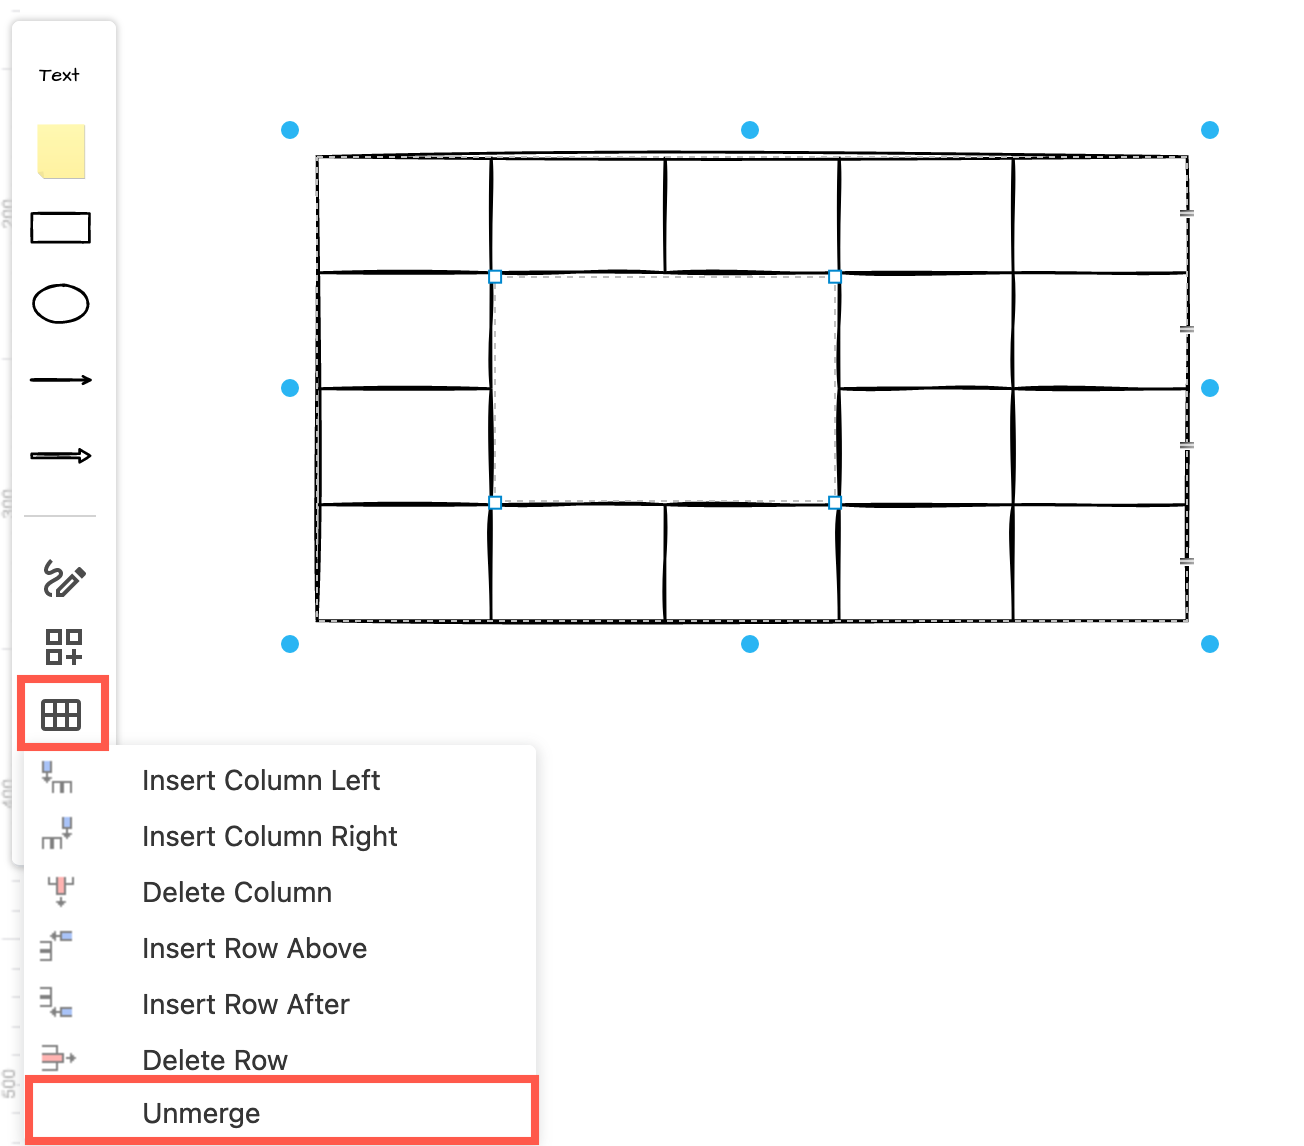
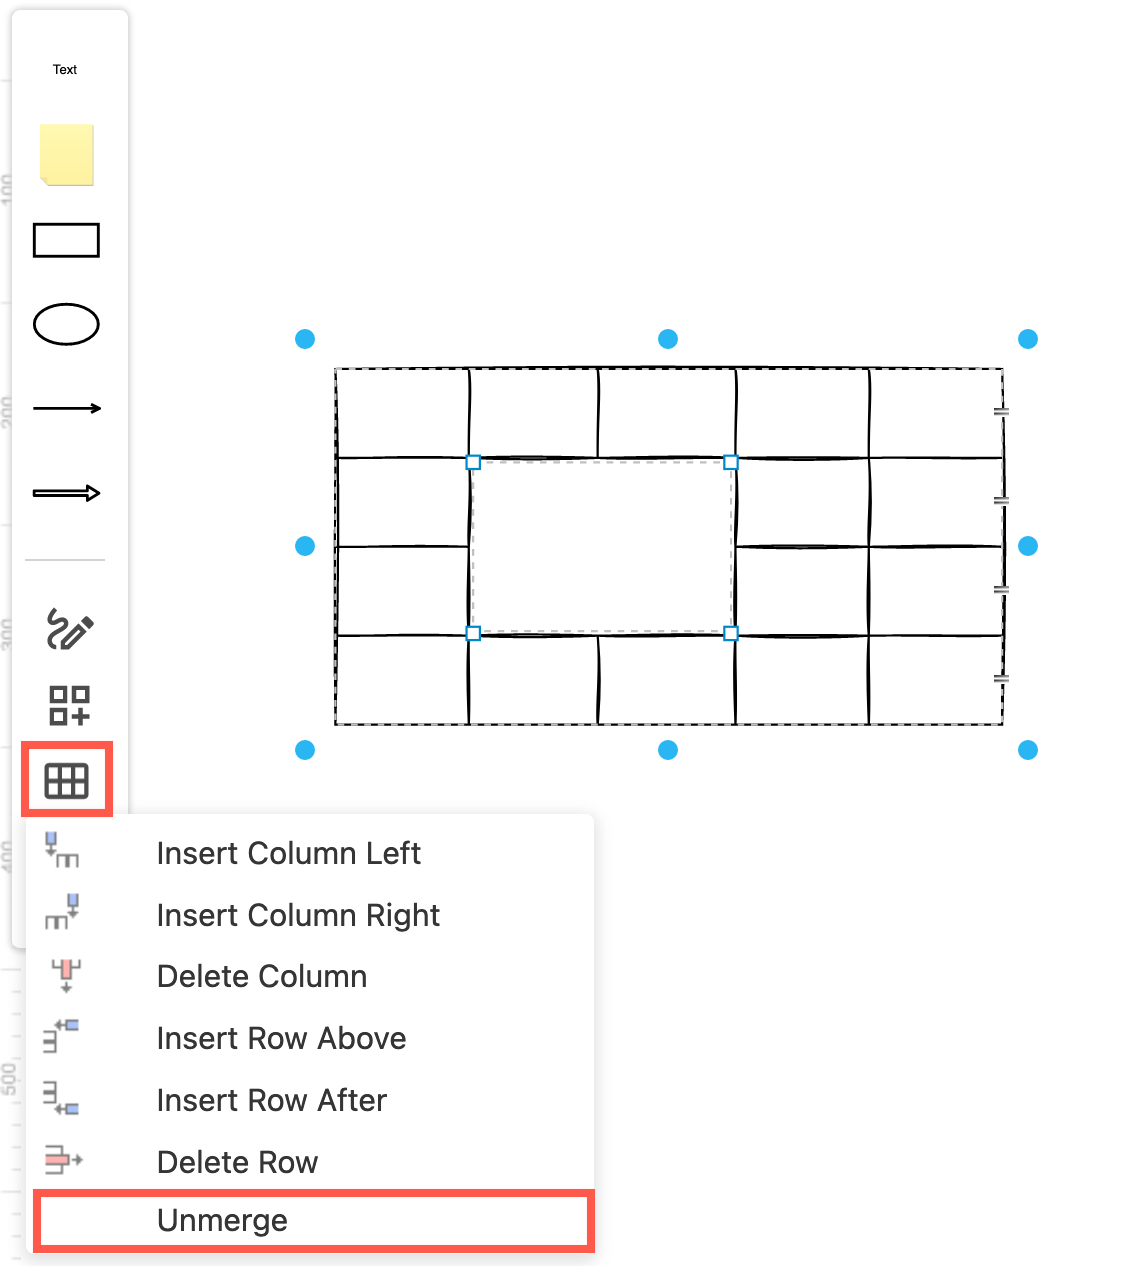
blog post

diff --git a/_posts/2022-01-14-recent-updates-support.md b/_posts/2022-01-14-recent-updates-support.md
@@ -1,7 +1,7 @@
 ---
 layout: post
 author: diagrams.net
-slug: recent-updates-support.md
+slug: recent-updates-support
 date: 2022-01-14 09:40:00
 title: Reporting issues, suggesting features and upvoting
 tags: [features]
@@ -29,16 +29,26 @@ You can now [crop images](https://github.com/jgraph/drawio/issues/73) in diagram
 
 This is a non-destructive crop. To reset the crop to the original image, click on _Reset_ in the crop image dialog.
 
-## Unmerge table cells in the Sketch editor theme
+## Merge and unmerge table cells in the Sketch editor theme
 
-[Unmerge merged table cells](https://github.com/jgraph/drawio/issues/979) using the _Table_ tool on the toolbar in the Sketch editor theme - our uncluttered [online whiteboard theme](/blog/sketch-online-whiteboard.html). 
+[Merge and unmerge table cells](https://github.com/jgraph/drawio/issues/979) using the _Table_ tool on the toolbar in the Sketch editor theme - our uncluttered [online whiteboard theme](/blog/sketch-online-whiteboard.html). 
+
+These options only appear when you have selected multiple table cells or a previously merged table cell.
+
+**Merge two or more table cells**
+
+1. Select two or more adjacent table cells (hold down ``Shift`` and click on multiple cells).
+2. Click on the _Table_ tool in the toolbar and select _Merge_. Alternatively, click on _Merge_ in the _Arrange_ tab of the format panel.
+<br /><img src="/assets/img/blog/sketch-theme-table-merge.png" style="width=100%;max-width:300px;height:auto;" alt="Merge table cells in the Sketch whiteboard-like editor theme in diagrams.net and draw.io">
+
+**Unmerge merged table cells**
 
 1. Select the merged cells in the table.
 2. Click on the _Table_ tool in the toolbar on the left and select _Unmerge_.
-<br /><img src="/assets/img/blog/sketch-theme-table-unmerge.png" style="width=100%;max-width:400px;height:auto;" alt="Unmerge table cells in the Sketch whiteboard-like editor theme in diagrams.net and draw.io">
+<br /><img src="/assets/img/blog/sketch-theme-table-unmerge.png" style="width=100%;max-width:300px;height:auto;" alt="Unmerge table cells in the Sketch whiteboard-like editor theme in diagrams.net and draw.io">
 
 In all of the editor themes, you can also unmerge merged table cells via the _Arrange_ tab of the format panel. 
-<br /><img src="/assets/img/blog/arrange-tab-unmerge.png" style="width=100%;max-width:300px;height:auto;" alt="Unmerge table cells in the diagrams.net and draw.io editor via the Arrange tab in the format panel">
+<br /><img src="/assets/img/blog/arrange-tab-unmerge.png" style="width=100%;max-width:350px;height:auto;" alt="Unmerge table cells in the diagrams.net and draw.io editor via the Arrange tab in the format panel">
 
 ## SVG export options for formatted text
 
@@ -93,3 +103,4 @@ If you have a question, rather than want to report an issue or request a new fea
 5. Describe your problems or suggested feature in the appropriate sections of the checklist, clearly and in detail.
 6. Click _Submit new issue_ when you have finished.
 <br /><img src="/assets/img/blog/support-github-new-bug-report.png" style="width=100%;max-width:400px;height:auto;" alt="Register that you also have a reported bug or want the requested feature in our drawio repository on GitHub">
+

diff --git a/doc/faq/number-plugin.md b/doc/faq/number-plugin.md
@@ -1,13 +1,25 @@
 ---
-title: Number the shapes in your diagram
+title: Automatically number shapes as you insert them
 layout: page
 faq: true
 categories: [Plugins, Confluence Cloud, Confluence Data Center and Server]
 ---
 
+**Important:** The ``Enumerate`` shape property allows you to add a numbered label to selected shapes and connectors. It can not be applied by default to any new shape added to the drawing canvas. 
+
+The ``Enumerate`` shape property, however, gives you control over what parts of your diagram are numbered, and can be customised to work on shapes and connectors inside container shapes or table cells, unlike the number plugin.
+
+[Learn how to use the ``Enumerate`` shape property](/blog/number-shapes.html)
+
+## Use the number plugin instead
+
 _This plugin should be used as-is, as an unsupported example for developers._
 
-Add automatic numbering to the shapes in your diagram with the number plugin. It will number each shape as they are added to your diagram. You can change the order by bring shapes to the front or sending them to the back - the numbering is based on their order (depth) in the diagram.
+Add automatic numbering to the shapes in your diagram with the number plugin. It will number each shape as they are added to your diagram. 
+
+You can change the order by bring shapes to forwards or backwards in the _Arrange_ tab of the format pannel - the numbering is based on their z-order (depth) in the diagram.
+
+**Note:** This does not work on container shapes and table shapes because they are compound shapes - the number plugin will number each part. Use the [``Enumerate`` shape property](/blog/number-shapes.html) instead. 
 
 [<img src="/assets/img/blog/number-plugin.gif" style="max-width:100%;height:auto;" alt="The number plugin automatically includes numbers on shapes as you add them to your diagram">](https://app.diagrams.net/?highlight=0000ff&edit=_blank&p=number&layers=1&nav=1&title=number-plugin#R5VdNj5swEP01HCsBJnxcl2bbSu2hiqpWvTkwAVLDIGNC0l9fE0yAJLCs1DTK9hLhNzMZz%2BP5ARrx0%2F0HTvP4C4bANFMP9xp5r5mma3jytwYODbBwSANEPAkbyOiAVfIbFKgrtExCKAaJApGJJB%2BCAWYZBGKAUc6xGqZtkA275jSCC2AVUHaJfk9CESvUsL0u8BGSKFatXdNpAiltk9UkRUxDrHoQWWrE54iiuUr3PrCau5aXpu55JHraGIdMzCl4%2Bunhj8J59hfbT18zd73aftu9I3bzNzvKSjWx2q04tBRAKBlRS%2BQixggzypYd%2BsSxzEKo%2B%2Bhy1eV8RswlaEhwC0Ic1O2lpUAJxSJlKtr0rBuNDqegAksewMRELd2C8gjE1OiL002Q4gVMQfCDLOTAqEh2w51QJaPolNcxLS8U2a8gvt3mFPEdrTVHVZwIWOX0OH0lD9uQwk3CmI8M%2BbGWhBTcTSDxQnD8Bb2IHbiw3pxI3wEXsJ%2Bm%2FZIkVWBaagx1uttl1Tsq7aRx75TY%2Bo1oJe5b03Mj0zl6du6pZ8v8b4m3Rs7IvyG%2B3eakkcSYrsviZRMZOs64dYyZzd%2BwFHtoKYZz6SnuFUtxb2Up1gynfjBlO3Mtxbursp2XiX8APZ89Isn9n5HeDEEzJt%2Bw4TEc4%2Fwl5IpjXGX4dpZhvAXlWvqZE7u3U65cdl9Cx1jvc5Is%2FwA%3D)
 

diff --git a/_posts/2022-01-19-number-shapes.md b/_posts/2022-01-19-number-shapes.md
@@ -1,0 +1,44 @@
+---
+layout: post
+author: diagrams.net
+slug: number-shapes
+date: 2022-01-19 10:15:00
+title: Number shapes in a diagram
+tags: [features]
+categories: [features]
+---
+
+You can now number shapes and connectors in a diagram using the ``Enumerate`` shape property. A yellow number label is applied to each shape and connector where this shape property has been enabled. 
+<br /><img src="/assets/img/blog/enumerate-example.png" style="width=100%;max-width:300px;height:auto;" alt="Number shapes in a diagram">
+
+## Add a number to selected shapes
+
+1. Select the shapes and connectors you want to enumerate. 
+2. Expand the _Properties_ section in the _Style_ tab of the format panel. 
+3. Scroll down and enable the ``Enumerate`` shape property checkbox. 
+<img src="/assets/img/blog/enumerate-enable.png" style="width=100%;max-width:400px;height:auto;" alt="Number shapes in a diagram">
+
+_**Note:** This replaces the functionality provided by the number plugin._
+
+### Change the order of numbered shapes
+
+The ``Enumerate`` shape property is based on the [z-order of shapes](/blog/move-shapes-forwards-backwards.html) in your diagram - how they are arranged from front to back. The shape at the front, is the top shape on the z-order stack - it was the shape last added, and therefore will have the highest number.
+
+If your diagram elements are not inside a container shape or table, you can use the _Arrange_ tab functions to move a selected shape backwards or forwards and change their order.
+
+**For example:** Using the simple flowchart template, the order of the shapes does not result in the correct number sequence. The final step shape was selected, and moved to the front.
+
+<img src="/assets/img/blog/enumerate.gif" style="width=100%;max-width:600px;height:auto;" alt="Number shapes in a diagram">
+
+
+### Set a custom number
+
+As the z-order of shapes embedded inside container shapes and table cells is not straightforward, moving shapes forward and backward on the drawing canvas will not change their numbering in any meaningful way.
+
+To apply an number label to shapes inside container shapes or table cells, enter a custom number in the ``Enumerate Value`` shape property. 
+
+<img src="/assets/img/blog/enumerate-value.png" style="width=100%;max-width:600px;height:auto;" alt="Number shapes in a diagram">
+
+**Note:** Shapes and connectors with a custom _Enumerate Value_ are not included in the automatic numbering.
+
+If you want to number all shapes as you add them to the drawing canvas, use the numbers plugin - this is 

diff --git a/_posts/2020-06-22-tables.md b/_posts/2020-06-22-tables.md
@@ -107,13 +107,15 @@ When you resize a cell in a cross-functional table, you will resize only that pa
 1. Click on a cell in the table, then click on it again to select the row.
 2. Press the ``Delete`` key, or right click and select _Delete_ from the context menu.
 
+## Merge and unmerge cells
+
+Merge adjacent cells and [unmerge merged table cells](/doc/faq/table-merge-cells.html) via the _Arrange_ tab in the format panel, or using the _Table_ tool in the Sketch whiteboard-like editor theme. 
+* _Merge_ is only available when you have selected multiple adjacent table cells.
+* _Unmerge_ is only available when you have selected a merged cell in a table.
+<br /><img src="/assets/img/blog/arrange-tab-unmerge.png" style="width=100%;max-width:400px;height:auto;" alt="Unmerge table cells in the diagrams.net and draw.io editor via the Arrange tab in the format panel">
+
 ## HTML tables are still available
 
 The HTML table shapes are still available in the _Misc_ shape library (part of the General shape library). Hover over the shapes to see their names.
 
 <img src="/assets/img/blog/table-html.png" style="width=100%;max-width:400px;height:auto;" alt="The older HTML tables are available as shapes in the Misc library in diagrams.net">
-
-You can also merge cells, and unmerge merged table cells via the _Arrange_ tab in the format panel, or using the _Table_ tool in the Sketch whiteboard-like editor theme. 
-* _Merge_ is only available when you have selected multiple adjacent table cells.
-* _Unmerge_ is only available when you have selected a merged cell in a table.
-<br /><img src="/assets/img/blog/arrange-tab-unmerge.png" style="width=100%;max-width:400px;height:auto;" alt="Unmerge table cells in the diagrams.net and draw.io editor via the Arrange tab in the format panel">

diff --git a/doc/faq/table-merge-cells.md b/doc/faq/table-merge-cells.md
@@ -1,0 +1,25 @@
+---
+title: Merge and unmerge table cells
+layout: page
+faq: true
+categories: [Features,Tables]
+---
+
+Adjacent table cells can be merged and unmerged.
+
+These options only appear when you have selected multiple table cells or a previously merged table cell.
+
+**Merge two or more table cells**
+
+1. To select two or more table cells, hold down ``Shift`` and click on multiple adjeacent cells in the table.
+2. In the _Arrange_ tab of the format panel, click on _Merge_.
+<br /><img src="/assets/img/blog/arrange-tab-merge.png" style="width=100%;max-width:150px;height:auto;" alt="Merge table cells in the diagrams.net and draw.io editor via the Arrange tab in the format panel">
+
+**Unmerge merged table cells**
+
+1. Select the merged cells in the table.
+2. In the _Arrange_ tab of the format panel, click on _Unmerge_.
+<br /><img src="/assets/img/blog/arrange-tab-unmerge.png" style="width=100%;max-width:350px;height:auto;" alt="Unmerge table cells in the diagrams.net and draw.io editor via the Arrange tab in the format panel">
+
+If you are using the Sketch whiteboard-like editor theme, you can merge and unmerge table cells via the _Table_ tool in the toolbar on the left. 
+<br /><img src="/assets/img/blog/sketch-theme-table-merge.png" style="width=100%;max-width:300px;height:auto;" alt="Merge table cells in the Sketch whiteboard-like editor theme in diagrams.net and draw.io">

diff --git a/pages/integrations.md b/pages/integrations.md
@@ -86,3 +86,4 @@ The draw.io apps for Confluence and Jira are available via the Atlassian Marketp
 * [**Tiki Wiki CMS Groupware:**](https://info.tiki.org/HomePage) Manage [diagrams](https://doc.tiki.org/Diagram) in Tiki Wiki CMS Groupware, a collaborative, free and open source wiki-based content management system.
 * [**VS Code:**](https://marketplace.visualstudio.com/items?itemName=hediet.vscode-drawio) Edit and manage diagrams directly inside VS Code. [See how to use the VS Code extension with github.dev](/blog/edit-diagrams-with-github-dev.html)
 * [**XWiki:**](https://extensions.xwiki.org/xwiki/bin/view/Extension/Diagram%20Application) Create diagrams in XWiki, a lightweight wiki software by using the Diagram Application extension.
+* [Wiki.js:**](https://js.wiki/feedback/p/drawio) Store and display diagrams in your documentation in Wiki.js, an open source Wiki program.

diff --git a/_posts/2021-07-01-move-shapes-forwards-backwards.md b/_posts/2021-07-01-move-shapes-forwards-backwards.md
@@ -53,3 +53,10 @@ To bring a shape from a lower layer to the front, you need to move it to a highe
 <img src="/assets/img/blog/shapes-move-layers.png" style="max-width:100%;height:auto;" alt="Move the selected shapes to another layer via the Layers dialog">
 
 [Learn how to work with layers in diagrams.net](/doc/layers.html)
+
+## Number shapes based on their z-order
+
+The ``Enumerate`` shape property uses the z-order of shapes and connectors on the drawing canvas - those that are not inside container shapes or tables - to automatically apply an increasing number value. 
+<br /><img src="/assets/img/blog/enumerate-example.png" style="width=100%;max-width:200px;height:auto;" alt="Number shapes in a diagram">
+
+[See how to work with the ``Enumerate`` and ``Enumerate Value`` shape properties](/blog/number-shapes.html)

diff --git a/doc/faq/table-cross-functional-add.md b/doc/faq/table-cross-functional-add.md
@@ -2,7 +2,7 @@
 title: Add a cross-functional table to your diagram
 layout: page
 faq: true
-categories: [Features]
+categories: [Features,Tables]
 ---
 
 Cross-functional flowcharts ([tables](/blog/tables.html)) use categories to group steps in a business process.

diff --git a/doc/faq/table-add.md b/doc/faq/table-add.md
@@ -2,7 +2,7 @@
 title: Add a table to your diagram
 layout: page
 faq: true
-categories: [Features]
+categories: [Features,Tables]
 ---
 
 Use the table tool in the toolbar to add a table to your diagram as you would in Microsoft Word or Google Docs.

diff --git a/doc/faq/add-rows.md b/doc/faq/add-rows.md
@@ -2,7 +2,7 @@
 title: Add rows to ERD tables, lists and UML classes
 layout: page
 faq: true
-categories: [Shapes]
+categories: [Shapes,Tables]
 ---
 
 There are two types of shapes in diagrams.net where you can add new rows.
